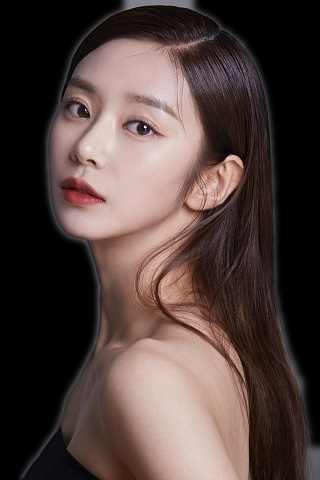
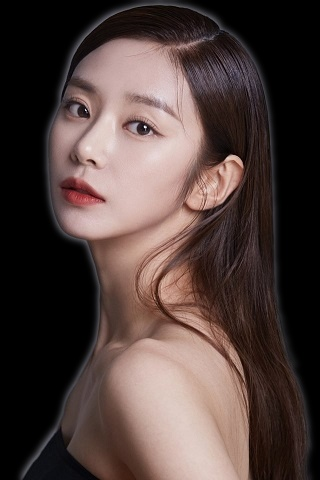
modified:   silhouette.py

diff --git a/silhouette.py b/silhouette.py
@@ -18,19 +18,14 @@ def remove_background(config: dict, image):
 
         # Convert image to grayscale
         image_gray = cv2.cvtColor(image, cv2.COLOR_BGR2GRAY)
-        
+
         image_gray = cv2.GaussianBlur(image_gray, (5, 5), 0)
         # Apply Canny Edge Dection
         edges = edge.Canny(image_gray, config['canny_low'], config['canny_high'])
-        cv2.imshow('', edges)
-        cv2.waitKey()
 
         edges = morph.dilate(edges)
         edges = morph.erode(edges)
         mask = floodfill.fill_background(edges)
-        
-        cv2.imshow('', mask)
-        cv2.waitKey()
 
         # use dilate, erode, and blur to smooth out the mask
         edges = morph.dilate(edges)
